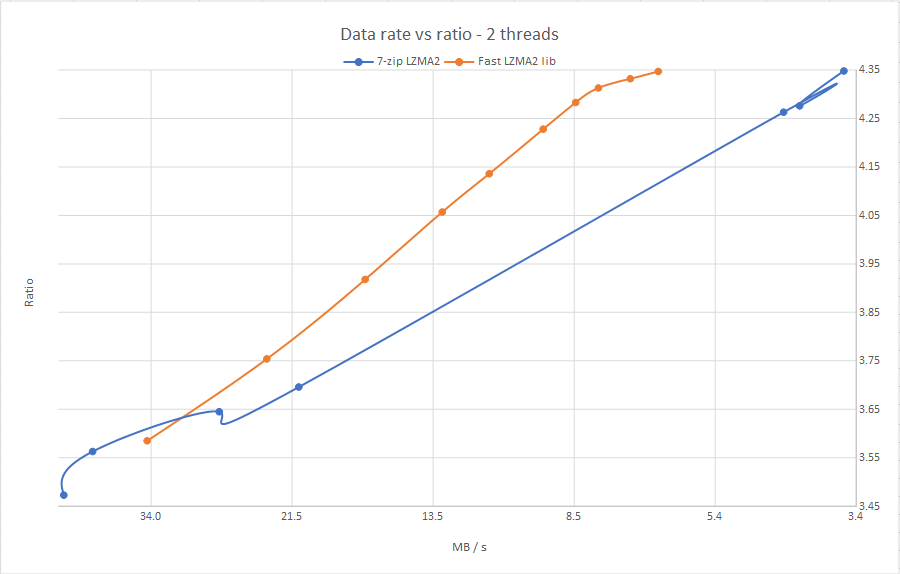
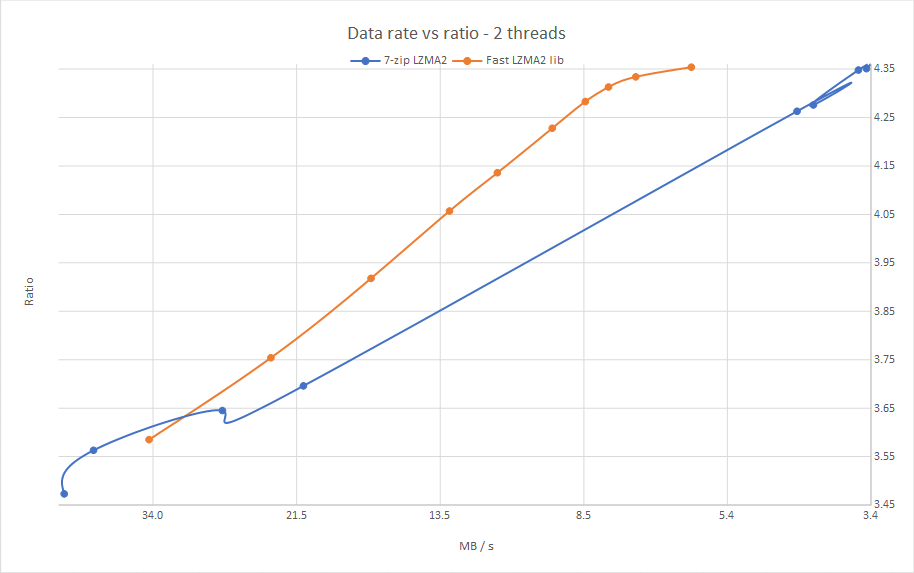
Tweak compression levels; fix shortened matches from the repeat handlers at depth 4

diff --git a/radix_engine.h b/radix_engine.h
@@ -13,8 +13,9 @@
 #define MAX_READ_BEYOND_DEPTH 2
 
 /* If a repeating byte is found, fill that section of the table with matches of distance 1 */
-static size_t RMF_handleRepeat(RMF_builder* const tbl, const BYTE* const data_block, size_t const start, ptrdiff_t i)
+static size_t RMF_handleRepeat(RMF_builder* const tbl, const BYTE* const data_block, size_t const start, ptrdiff_t i, U32 depth)
 {
+    /* Normally the last 2 bytes, but may be 4 if depth == 4 */
     ptrdiff_t const last_2 = i + MAX_REPEAT / 2 - 1;
 
     /* Find the start */
@@ -28,7 +29,7 @@ static size_t RMF_handleRepeat(RMF_builder* const tbl, const BYTE* const data_bl
     ptrdiff_t const rpt_index = i;
     /* No point if it's in the overlap region */
     if (last_2 >= (ptrdiff_t)start) {
-        U32 len = 2;
+        U32 len = depth;
         /* Set matches at distance 1 and available length */
         for (i = last_2; i > rpt_index && len <= RADIX_MAX_LENGTH; --i) {
             SetMatchLinkAndLength(i, (U32)(i - 1), len);
@@ -42,8 +43,9 @@ static size_t RMF_handleRepeat(RMF_builder* const tbl, const BYTE* const data_bl
 }
 
 /* If a 2-byte repeat is found, fill that section of the table with matches of distance 2 */
-static size_t RMF_handleRepeat2(RMF_builder* const tbl, const BYTE* const data_block, size_t const start, ptrdiff_t i)
+static size_t RMF_handleRepeat2(RMF_builder* const tbl, const BYTE* const data_block, size_t const start, ptrdiff_t i, U32 depth)
 {
+    /* Normally the last 2 bytes, but may be 4 if depth == 4 */
     ptrdiff_t const last_2 = i + MAX_REPEAT * 2U - 4;
 
     /* Find the start */
@@ -59,7 +61,7 @@ static size_t RMF_handleRepeat2(RMF_builder* const tbl, const BYTE* const data_b
     ptrdiff_t const rpt_index = i;
     /* No point if it's in the overlap region */
     if (i >= (ptrdiff_t)start) {
-        U32 len = 2 + (data_block[last_2 + 2] == data_block[last_2]);
+        U32 len = depth + (data_block[last_2 + depth] == data_block[last_2]);
         /* Set matches at distance 2 and available length */
         for (i = last_2; i > rpt_index && len <= RADIX_MAX_LENGTH; i -= 2) {
             SetMatchLinkAndLength(i, (U32)(i - 2), len);
@@ -232,12 +234,12 @@ static void RMF_recurseListsBuffered(RMF_builder* const tbl,
                 else {
                     /* Eliminate the repeat from the linked list to save time */
                     if (dist == 1) {
-                        link = RMF_handleRepeat(tbl, data_block, block_start, link);
+                        link = RMF_handleRepeat(tbl, data_block, block_start, link, depth);
                         count -= MAX_REPEAT / 2;
                         orig_list_count -= (U32)(rpt_tail - link);
                     }
                     else {
-                        link = RMF_handleRepeat2(tbl, data_block, block_start, link);
+                        link = RMF_handleRepeat2(tbl, data_block, block_start, link, depth);
                         count -= MAX_REPEAT - 1;
                         orig_list_count -= (U32)(rpt_tail - link) >> 1;
                     }
@@ -488,7 +490,7 @@ static void RMF_recurseLists16(RMF_builder* const tbl,
     U32 count,
     U32 const max_depth)
 {
-    U32 const table_max_depth = MIN(max_depth, RADIX_MAX_LENGTH) & ~1;
+    U32 const table_max_depth = MIN(max_depth, RADIX_MAX_LENGTH);
     /* Offset data pointer. This function is only called at depth 2 */
     const BYTE* const data_src = data_block + 2;
     /* Load radix values from the data chars */
@@ -987,8 +989,9 @@ RMF_bitpackIntegrityCheck
 #else
 RMF_structuredIntegrityCheck
 #endif
-(const FL2_matchTable* const tbl, const BYTE* const data, size_t index, size_t const end, unsigned const max_depth)
+(const FL2_matchTable* const tbl, const BYTE* const data, size_t index, size_t const end, unsigned max_depth)
 {
+    max_depth &= ~1;
     int err = 0;
     for (index += !index; index < end; ++index) {
         if (IsNull(index))
@@ -1011,6 +1014,7 @@ RMF_structuredIntegrityCheck
             err = 1;
         }
         if (length < max_depth && len_test > length)
+            /* These occur occasionally due to splitting of chains in the buffer when long repeats are present */
             printf("Shortened match at %X: %u of %u\r\n", (U32)index, length, len_test);
     }
     return err;

diff --git a/fl2_compress.c b/fl2_compress.c
@@ -44,8 +44,8 @@ static const FL2_compressionParameters FL2_defaultCParameters[FL2_MAX_CLEVEL + 1
     { 16 MB, 2, 8, 0, 42, 48, 1, 4, FL2_opt }, /* 5 */
     { 16 MB, 2, 9, 1, 42, 48, 1, 4, FL2_ultra }, /* 6 */
     { 32 MB, 2, 10, 1, 50, 64, 1, 4, FL2_ultra }, /* 7 */
-    { 64 MB, 2, 11, 2, 60, 96, 1, 3, FL2_ultra }, /* 8 */
-    { 64 MB, 3, 12, 3, 126, 160, 1, 3, FL2_ultra }, /* 9 */
+    { 64 MB, 2, 11, 2, 62, 96, 1, 3, FL2_ultra }, /* 8 */
+    { 64 MB, 4, 12, 3, 90, 273, 0, 3, FL2_ultra }, /* 9 */
 };
 
 #elif defined(FL2_7ZIP_BUILD)
@@ -62,8 +62,8 @@ static const FL2_compressionParameters FL2_defaultCParameters[FL2_MAX_CLEVEL + 1
     { 16 MB, 2, 9, 0, 42, 48, 1, 4, FL2_ultra }, /* 5 */
     { 32 MB, 2, 10, 0, 50, 64, 1, 4, FL2_ultra }, /* 6 */
     { 64 MB, 2, 11, 1, 62, 96, 1, 3, FL2_ultra }, /* 7 */
-    { 128 MB, 2, 12, 2, 128, 128, 1, 2, FL2_ultra }, /* 8 */
-    { 128 MB, 3, 14, 3, 252, 160, 0, 2, FL2_ultra } /* 9 */
+    { 64 MB, 4, 12, 2, 90, 273, 1, 3, FL2_ultra }, /* 8 */
+    { 128 MB, 2, 14, 3, 254, 273, 0, 2, FL2_ultra } /* 9 */
 };
 
 #else
@@ -81,8 +81,8 @@ static const FL2_compressionParameters FL2_defaultCParameters[FL2_MAX_CLEVEL + 1
     { 16 MB, 2, 9, 0, 42, 48, 1, 4, FL2_ultra }, /* 6 */
     { 32 MB, 2, 10, 0, 50, 64, 1, 4, FL2_ultra }, /* 7 */
     { 64 MB, 2, 11, 1, 62, 96, 1, 3, FL2_ultra }, /* 8 */
-    { 128 MB, 2, 12, 2, 126, 128, 1, 2, FL2_ultra }, /* 9 */
-    { 256 MB, 2, 14, 3, 254, 160, 1, 2, FL2_ultra } /* 10 */
+    { 64 MB, 4, 12, 2, 90, 273, 1, 3, FL2_ultra }, /* 9 */
+    { 128 MB, 2, 14, 3, 254, 273, 0, 2, FL2_ultra } /* 10 */
 };
 
 #endif

diff --git a/radix_internal.h b/radix_internal.h
@@ -121,8 +121,8 @@ void RMF_recurseListChunk(RMF_builder* const tbl,
     U32 const max_depth,
     U32 const list_count,
     size_t const stack_base);
-int RMF_bitpackIntegrityCheck(const struct FL2_matchTable_s* const tbl, const BYTE* const data, size_t index, size_t const end, unsigned const max_depth);
-int RMF_structuredIntegrityCheck(const struct FL2_matchTable_s* const tbl, const BYTE* const data, size_t index, size_t const end, unsigned const max_depth);
+int RMF_bitpackIntegrityCheck(const struct FL2_matchTable_s* const tbl, const BYTE* const data, size_t index, size_t const end, unsigned max_depth);
+int RMF_structuredIntegrityCheck(const struct FL2_matchTable_s* const tbl, const BYTE* const data, size_t index, size_t const end, unsigned max_depth);
 void RMF_bitpackLimitLengths(struct FL2_matchTable_s* const tbl, size_t const index);
 void RMF_structuredLimitLengths(struct FL2_matchTable_s* const tbl, size_t const index);
 BYTE* RMF_bitpackAsOutputBuffer(struct FL2_matchTable_s* const tbl, size_t const index);

diff --git a/README.md b/README.md
@@ -1,25 +1,26 @@
  The __Fast LZMA2 Library__ is a lossless high-ratio data compression library based on the LZMA2 codec in 7-zip.
 
-Binaries of a 7-Zip fork using the algorithm are available in the [7-Zip-FL2 project].
+Binaries of 7-Zip forks which use the algorithm are available in the [7-Zip-FL2 project] and the [7-Zip-zstd project].
 
 [7-Zip-FL2 project]: https://github.com/conor42/7-Zip-FL2/releases/
+[7-Zip-zstd project]: https://github.com/mcmilk/7-Zip-zstd/releases/
 
-The library uses a parallel buffered radix matchfinder and some optimizations from Zstandard to achieve a 20% to 100%
-speed gain over 7-zip at the higher levels, depending on the source data. It also uses some threading, portability, and testing code
-from Zstandard.
+The library uses a parallel buffered radix match finder and some optimizations from Zstandard to achieve a 20% to 100%
+speed gain at the higher levels over the default LZMA2 algorithm used in 7-zip, for a small loss in compression ratio. Speed gains
+depend on the nature of the source data. The library also uses some threading, portability, and testing code from Zstandard.
 
-Use of the parallel buffered radix matchfinder instead of BT4 allows multithreaded execution with a simple design and low memory
-requirement. The library can compress using many threads without dividing the input into large chunks. Extra
-memory used per thread is typically no more than a few megabytes, unlike 7-zip in which memory usage scales with the number of threads.
+Use of the parallel buffered radix match finder allows multithreaded execution with a simple design and low memory requirement. The
+library can compress using many threads without dividing the input into large chunks, and the resulting duplication of the match
+finder tables and chains. Extra memory used per thread is typically no more than a few megabytes.
 
-The largest caveat is that the matchfinder is a block algorithm, and to achieve about the same ratio as 7-zip requires double the
-dictionary size, which raises the decompression memory usage. However a reduced dictionary size results in only a small loss of ratio.
-A high-compression option is provided to select parameters which achieve higher compression on smaller dictionaries. The speed/ratio
-tradeoff is less optimal with this enabled, but it is still normally faster than BT4.
+The largest caveat is that the matchfinder is a block algorithm, and to achieve about the same ratio as 7-Zip requires double the
+dictionary size, which raises the decompression memory usage. By default it uses the same dictionary size as 7-Zip, resulting in a
+small loss of ratio. A high-compression option is provided to select parameters which achieve higher compression on smaller
+dictionaries. The speed/ratio tradeoff is less optimal with this enabled.
 
-Tested in memory vs the 7-zip LZMA2 encoder on the [Silesia compression corpus] using two threads. The design goal for the encoder and
-compression level parameters was to move the line as far as possible toward the top left of the graph. This provides an optimal
-speed/ratio tradeoff.
+Tested in memory vs the 7-zip 19.00 LZMA2 encoder on the [Silesia compression corpus] using two threads. The design goal for the
+encoder and compression level parameters was to move the line as far as possible toward the top left of the graph. This provides an
+optimal speed/ratio tradeoff.
 
 [Silesia compression corpus]: http://sun.aei.polsl.pl/~sdeor/index.php?page=silesia
 
@@ -29,13 +30,26 @@ Compression data rate vs ratio
 
 ### Build
 
-The library is work in progress, and build methods aren't comprehensive for all systems. There are VS 2015 projects for building a
-benchmark program, fuzz tester, and a DLL. Makefiles for gcc are included for the benchmark, fuzzer and DLL, and user nemequ has
-contributed a CMake file. If anyone would like to help improve the build methods, please do so.
+Build methods are not yet comprehensive for all systems. There are VS 2015 projects for building a benchmark program, fuzz tester,
+and a DLL. Makefiles for gcc are included for the benchmark, fuzzer and DLL, and user nemequ has contributed a CMake file. If anyone
+would like to help improve the build methods, please do so.
 
 ### Status
 
-A significant amount of testing has already been done, but the library is in beta and is unsuitable for production environments.
+The library has passed a large amount of fuzz testing, and testing on file sets selected at random in the Radyx file archiver. An
+earlier version was released in the 7-Zip forks linked above. The library is suitable for production environments.
+
+Changes in v1.0.0:
+
+- Redesigned API.
+- Moved detection of repeats from the single-threaded initialization stage to a later, multithreaded stage.
+- LZMA2 encoder optimizations; some from Igor Pavlov's optimizations in 7-Zip 18.05, and some additional ones.
+- Removed two compression levels, reducing the total to 10, and tweaked the parameters.
+- Multithreaded decompression.
+
+Changes in v0.9.2:
+
+- Fixed excess memory allocation when the dictionary size is > 64Mb
 
 Changes in v0.9.1:
 
